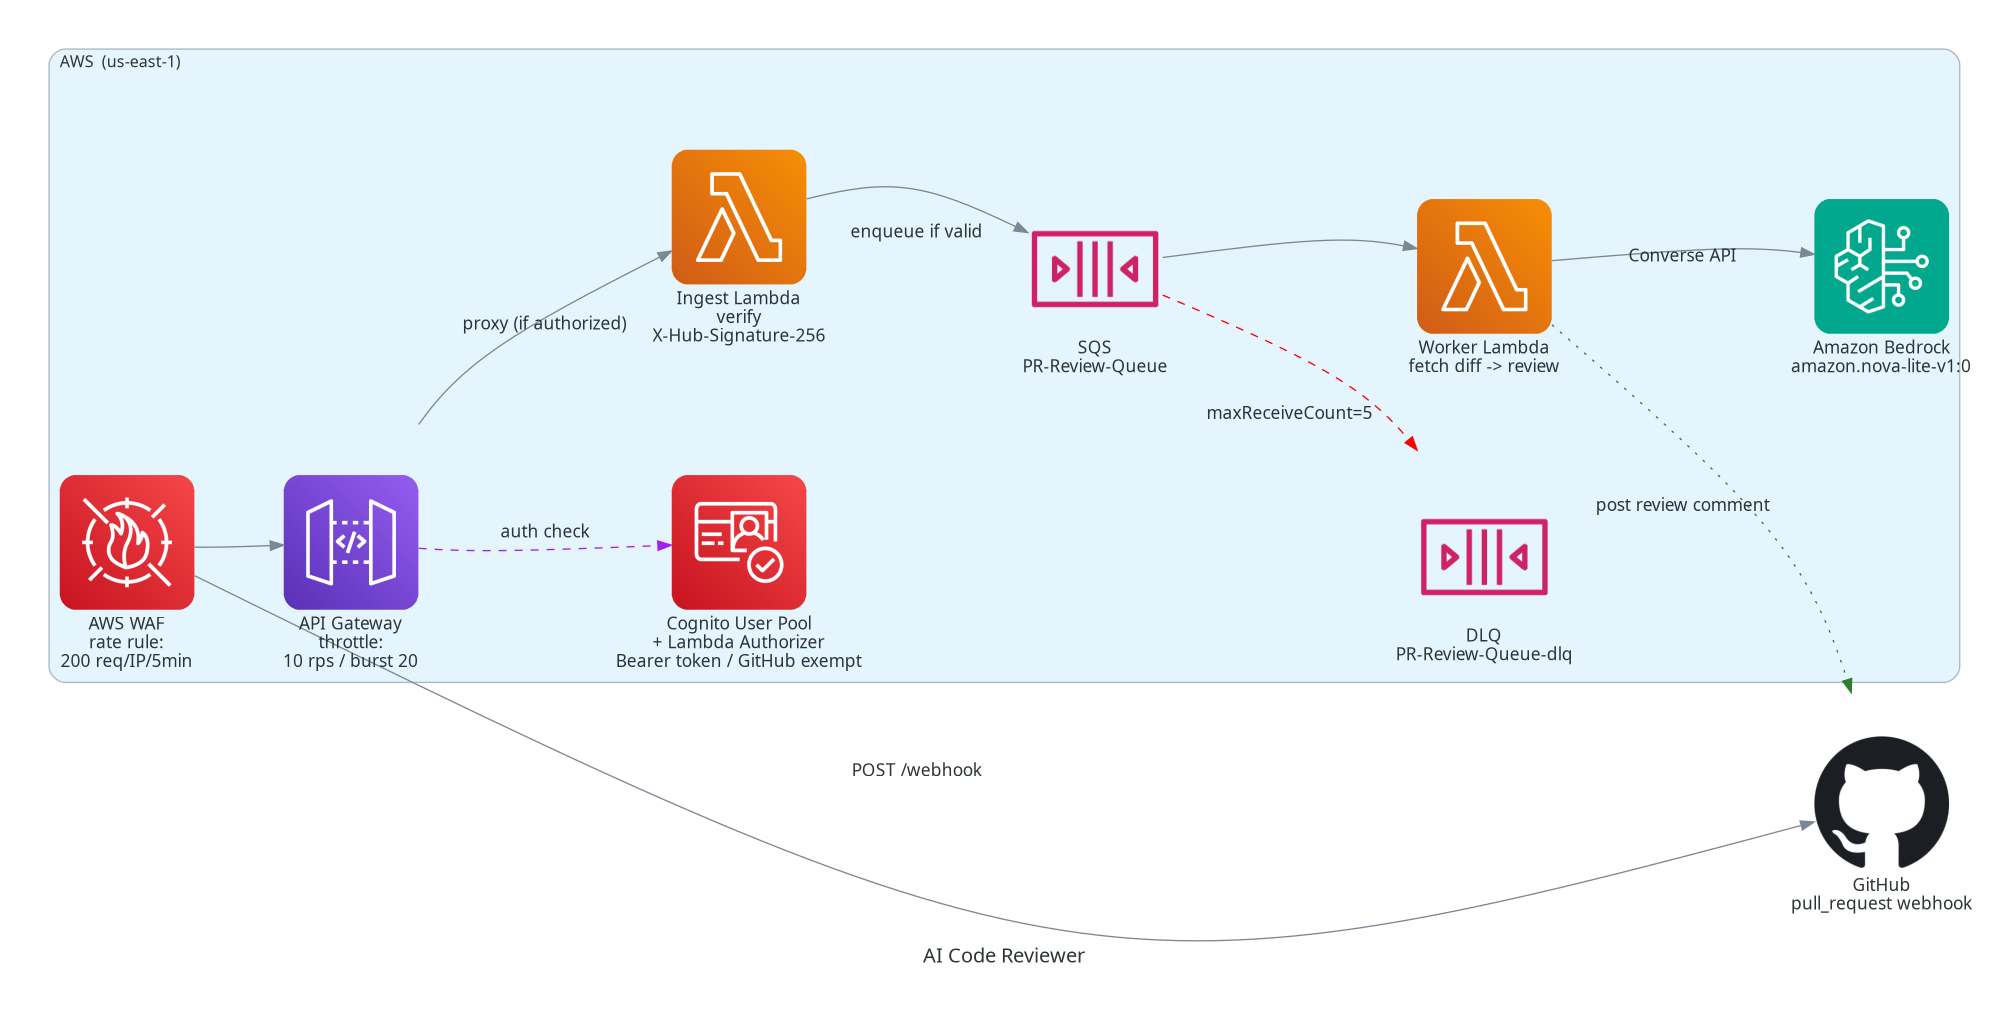
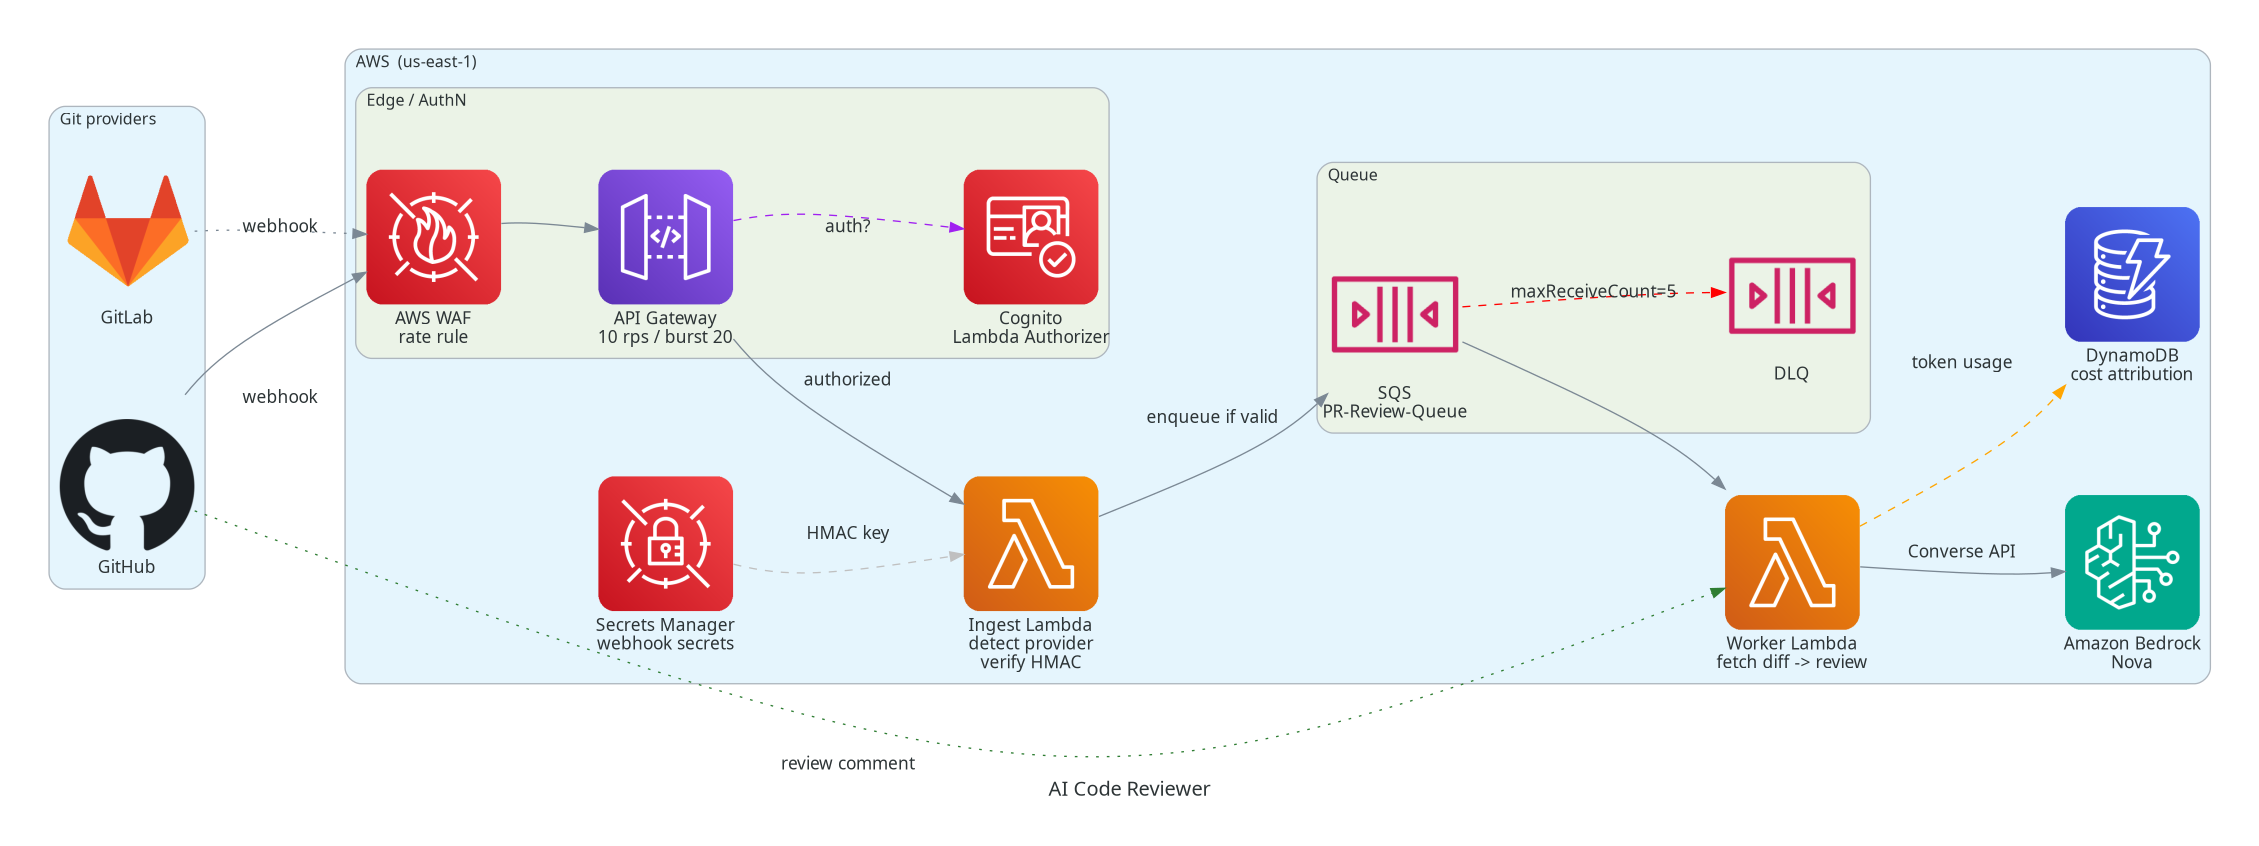
docs: architecture diagram now matches the live system
- Adds GitLab webhook (multi-provider), Secrets Manager (HMAC keys),
  and DynamoDB cost-attribution which were missing
- Cognito authorizer shown on the auth path (API GW -> authorizer -> ingest)
- 'Git providers' / 'Edge / AuthN' / 'Queue' clusters for readability

diff --git a/docs/architecture.py b/docs/architecture.py
@@ -6,13 +6,14 @@ Requires:         pip install diagrams && apt install graphviz
 """
 from diagrams import Cluster, Diagram, Edge
 from diagrams.aws.compute import Lambda
+from diagrams.aws.database import Dynamodb
 from diagrams.aws.integration import SimpleQueueServiceSqsQueue
 from diagrams.aws.ml import Bedrock
 from diagrams.aws.network import APIGateway
-from diagrams.aws.security import Cognito, WAF
-from diagrams.onprem.vcs import Github
+from diagrams.aws.security import Cognito, SecretsManager, WAF
+from diagrams.onprem.vcs import Github, Gitlab
 
-graph_attr = {"pad": "0.4", "nodesep": "0.7", "ranksep": "0.9"}
+graph_attr = {"pad": "0.4", "nodesep": "0.7", "ranksep": "1.0"}
 
 with Diagram(
     "AI Code Reviewer",
@@ -23,27 +24,33 @@ with Diagram(
     outformat=["png", "svg"],
     graph_attr=graph_attr,
 ):
-    github = Github("GitHub\npull_request webhook")
+    with Cluster("Git providers"):
+        github = Github("GitHub")
+        gitlab = Gitlab("GitLab")
 
     with Cluster("AWS  (us-east-1)"):
-        cognito = Cognito("Cognito User Pool\n+ Lambda Authorizer\nBearer token / GitHub exempt")
-        waf = WAF("AWS WAF\nrate rule:\n200 req/IP/5min")
-        apigw = APIGateway("API Gateway\nthrottle:\n10 rps / burst 20")
-        ingest = Lambda("Ingest Lambda\nverify\nX-Hub-Signature-256")
-        queue = SimpleQueueServiceSqsQueue("SQS\nPR-Review-Queue")
-        dlq = SimpleQueueServiceSqsQueue("DLQ\nPR-Review-Queue-dlq")
+        with Cluster("Edge / AuthN"):
+            waf = WAF("AWS WAF\nrate rule")
+            apigw = APIGateway("API Gateway\n10 rps / burst 20")
+            cognito = Cognito("Cognito\nLambda Authorizer")
+        secrets = SecretsManager("Secrets Manager\nwebhook secrets")
+        ingest = Lambda("Ingest Lambda\ndetect provider\nverify HMAC")
+        with Cluster("Queue"):
+            queue = SimpleQueueServiceSqsQueue("SQS\nPR-Review-Queue")
+            dlq = SimpleQueueServiceSqsQueue("DLQ")
         worker = Lambda("Worker Lambda\nfetch diff -> review")
-        bedrock = Bedrock("Amazon Bedrock\namazon.nova-lite-v1:0")
+        bedrock = Bedrock("Amazon Bedrock\nNova")
+        ddb = Dynamodb("DynamoDB\ncost attribution")
 
-    github >> Edge(label="POST /webhook") >> waf >> apigw
-    apigw >> Edge(label="auth check", style="dashed", color="purple") >> cognito
-    apigw >> Edge(label="proxy (if authorized)") >> ingest
+    github >> Edge(label="webhook") >> waf
+    gitlab >> Edge(label="webhook", style="dotted") >> waf
+    waf >> apigw
+    apigw >> Edge(label="auth?", style="dashed", color="purple") >> cognito
+    apigw >> Edge(label="authorized") >> ingest
+    secrets >> Edge(label="HMAC key", style="dashed", color="gray") >> ingest
     ingest >> Edge(label="enqueue if valid") >> queue
     queue >> worker
-    queue >> Edge(
-        label="maxReceiveCount=5", color="red", style="dashed"
-    ) >> dlq
+    queue >> Edge(label="maxReceiveCount=5", color="red", style="dashed") >> dlq
     worker >> Edge(label="Converse API") >> bedrock
-    worker >> Edge(
-        label="post review comment", color="#2e7d32", style="dotted"
-    ) >> github
+    worker >> Edge(label="token usage", style="dashed", color="orange") >> ddb
+    worker >> Edge(label="review comment", color="#2e7d32", style="dotted") >> github
